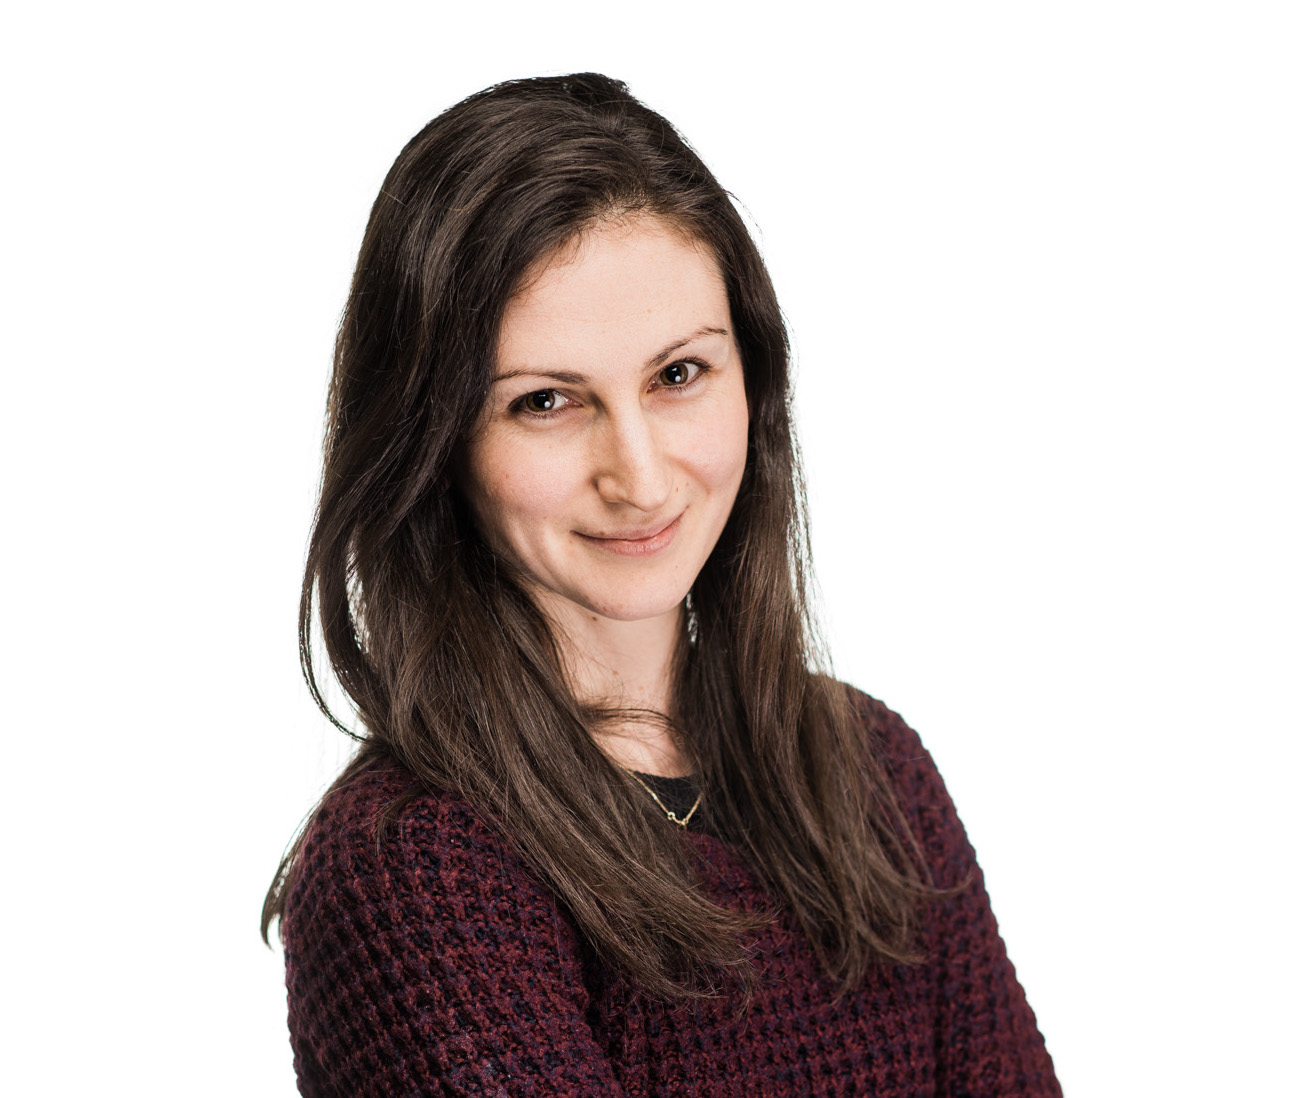
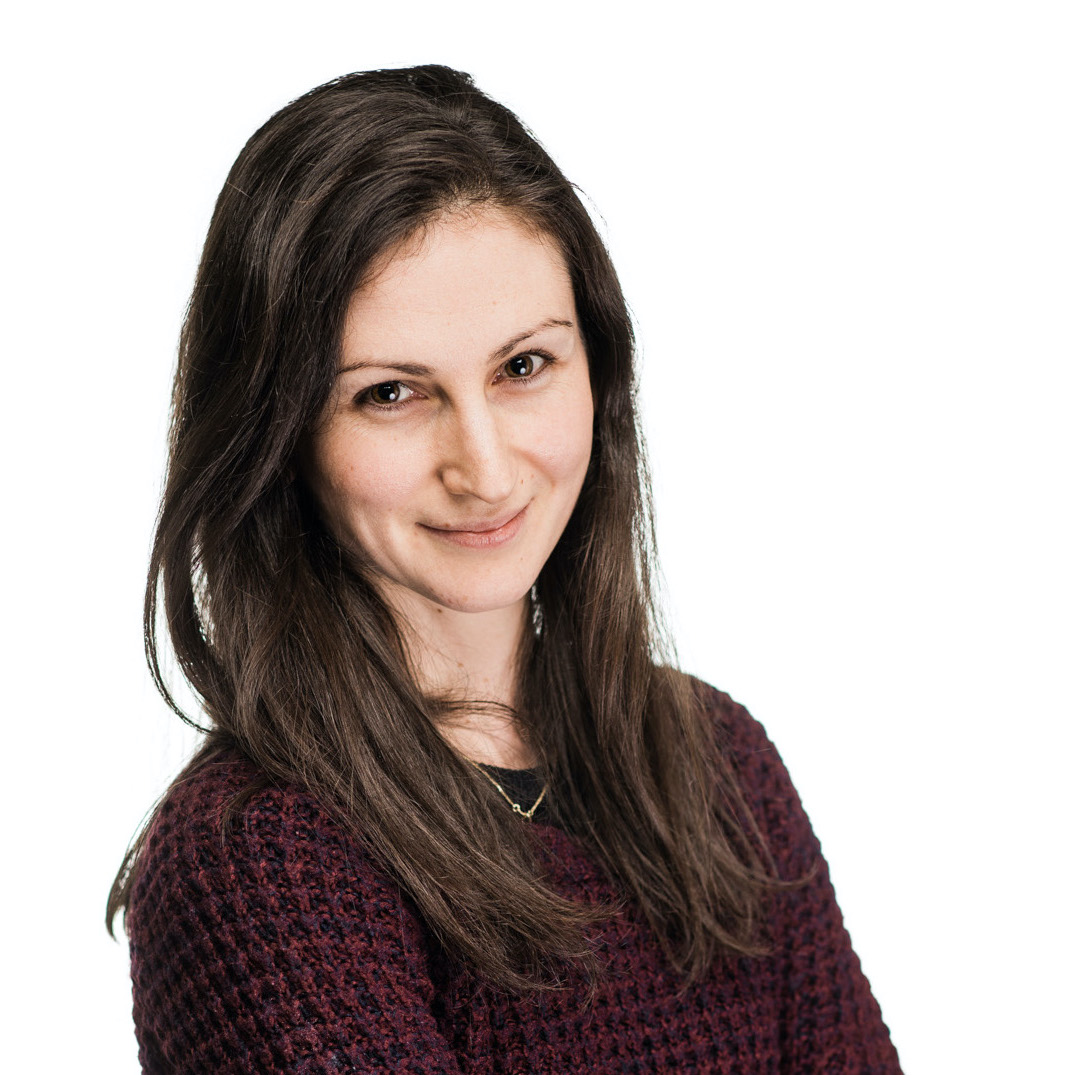
fix image styling and nav bar.

diff --git a/src/style.css b/src/style.css
@@ -29,12 +29,12 @@ body {
 }
 .resume-link {
   color: white;
-  margin-left: 20px;
+  padding: 10px;
   font-size: 20px;
 }
 .resume-link:hover {
   text-decoration: none;
-  color: #ff8a00;
+  color: #fff;
 }
 .html-tag {
   font-family: "Source Code Pro", monospace;
@@ -66,18 +66,20 @@ body {
   margin-bottom: 10px;
 }
 .my-image {
-    height: 250px;
-    width: 300px;
+    height: 30%;
+    width: 30%;
     border-radius: 50%;
+    margin-left: 50px;
 }
 .title-container {
   display: flex;
   flex-direction: row;
   justify-content: space-around;
   align-items: center;
+  width: 95%;
 }
 .title {
-  margin-left: 30px;
+  /* margin-left: -60px; */
   color: #FF8A00;
   font-size: 55px;
 }
@@ -87,10 +89,11 @@ body {
 }
 .about {
   color: #ccc;
-  font-size: 25px; 
+  font-size: 22px; 
   font-family: "Poppins", sans-serif ;
   margin-left: 50px;
-  line-height: 1.5;
+  margin-right: 0px;
+  line-height: 1.6;
   width: 85%;
   margin-top: 20px;
   margin-bottom: 20px;
@@ -153,6 +156,12 @@ body {
   margin-right: 20px;
   border-radius: 5px;
   font-size: 20px;
+  height: 38px;
+  align-self: center;
+
+}
+.resume-button {
+  margin-right: 120px;
 }
 .link-button:hover {
   border-color:#ff8a00 ;
@@ -170,29 +179,34 @@ body {
   color: #fff;
   margin-right: 10px;
 }
+.footer {
+  display: flex;
+  flex-direction: row;
+  justify-content: space-between;
+  margin-top: 50px;
+}
 
 @media screen and (max-width: 800px) {
   .title-container {
-   margin-left: 20px;
-   margin-right: 20px;
+   margin-left: 40px;
+   margin-right: 40px;
+   width: 85%;
+  }
+  .title {
+    font-size: 40px;
   }
   .sub-title {
     font-size: 30px;
   }
+  .resume-button {
+    margin-right:70px;
+  }
+  
 }
 
 @media screen and (max-width: 415px) {
-  .resume-link {
-    font-size: 15px;
-    padding-right: 35px;
-  }
   .nav-item {
     font-size: 15px;
-
-  }
-  .nav {
-    flex-wrap: nowrap;
-    margin-left: 40px
   }
   .body {
     margin: 15px;
@@ -204,12 +218,8 @@ body {
   .sub-title {
     font-size: 15px;
   }
-  .my-image {
-    height: 100px;
-    width: 120px;
-  }
   .about {
-    font-size: 15px;
+    font-size: 13px;
   }
   .html-tag {
     font-size: 15px;
@@ -219,5 +229,14 @@ body {
   }
   .h1-tag {
     font-size: 15px;
+  }
+  .link-button {
+    border-color: white;
+  }
+  .social-link {
+    font-size: 20px;
+  }
+  .resume-button {
+   display: none;
   }
 }

diff --git a/src/components/info.js b/src/components/info.js
@@ -5,6 +5,8 @@ import {
   FaEnvelope as Mail,
 } from "react-icons/fa";
 import image from '../images/my-image.jpg';
+import Pdf from '../images/Resume.pdf';
+
 
 
 
@@ -48,19 +50,23 @@ export default function info() {
       <div className="body-tag">&lt;/body&gt;</div>
       <div className="html-tag">&lt;/html&gt;</div>
 
+      <div className="footer">
+        <div className="social-container">
+          <a className="social-link" href="https://github.com/mirimar8" target="_blank" rel="noopener noreferrer">
+            <Github />
+          </a>
+          <a className="social-link" href="https://www.linkedin.com/in/miri-markovitz/" target="_blank" rel="noopener noreferrer">
+            <LinkedIn />
+          </a>
+          <a className="social-link" href="mailto://mirimarkovitzbl@gmail.com" target="_blank" rel="noopener noreferrer">
+            <Mail />
+          </a>
 
-      <div className="social-container">
-        <a className="social-link" href="https://github.com/mirimar8" target="_blank" rel="noopener noreferrer">
-          <Github />
-        </a>
-        <a className="social-link" href="https://www.linkedin.com/in/miri-markovitz/" target="_blank" rel="noopener noreferrer">
-          <LinkedIn />
-        </a>
-        <a className="social-link" href="mailto://mirimarkovitzbl@gmail.com" target="_blank" rel="noopener noreferrer">
-          <Mail />
-        </a>
+        </div>
+        <button className="link-button resume-button">
+          <a href={Pdf} target="_blank" rel="noopener noreferrer" className="resume-link">Resume</a>
+        </button>
       </div>
-
 
     </div>
   )

diff --git a/src/components/appbar.js b/src/components/appbar.js
@@ -1,6 +1,5 @@
 import React from "react"
 import Intent from "./link"
-import Pdf from '../images/Resume.pdf';
 
 
 export default function Appbar() {
@@ -12,9 +11,6 @@ export default function Appbar() {
         </li>
         <li className="nav-item mx-4">
           <Intent to="/projects">Projects</Intent>
-        </li>
-        <li className="nav-item mx-4">
-          <a href={Pdf} target="_blank" rel="noopener noreferrer" className="resume-link">Resume</a>
         </li>
       </ul>
 
